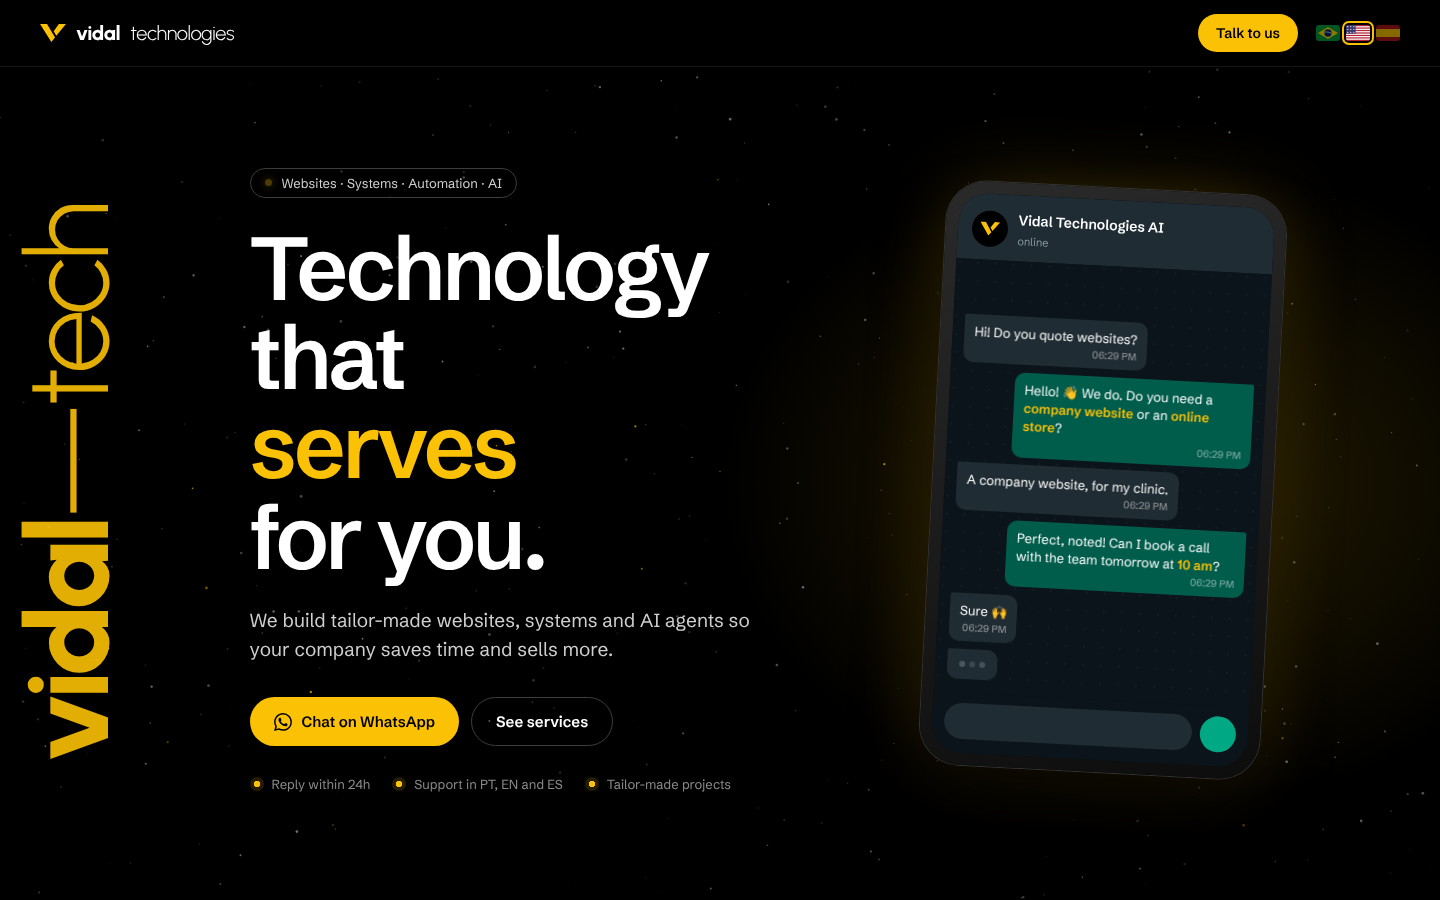
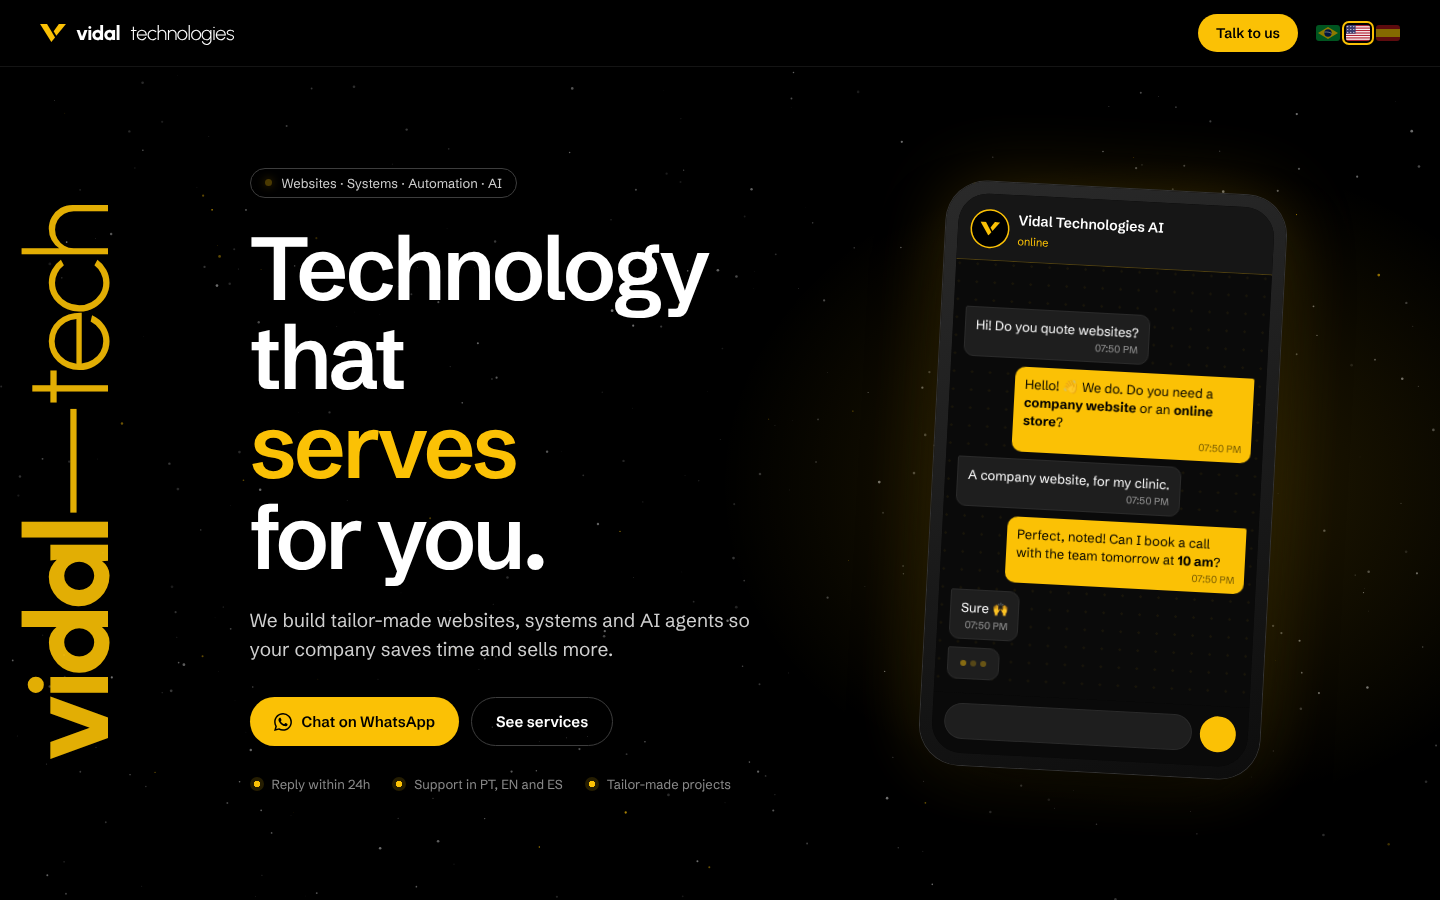
Conversa e botão de WhatsApp nas cores da Vidal
Troca o verde do WhatsApp por preto, grafite e dourado no celular do topo
e no botão flutuante. Atualiza os prints do README.

Claude-Session: https://claude.ai/code/session_01VMvWN3ztoPTLCbtyCda1pm

Changed region(s): [[0.6562, 0.3422, 0.875, 0.7467], [0.6562, 0.2178, 0.9062, 0.3111], [0.8125, 0.7778, 0.875, 0.84]]

diff --git a/index.html b/index.html
@@ -23,7 +23,6 @@
     --gold: #fbc105;
     --gold-2: #ffd54a;
     --ink: #000;
-    --wa: #25d366;
   }
   * { box-sizing: border-box; margin: 0; padding: 0; }
   html { scroll-behavior: smooth; color-scheme: dark; }
@@ -79,26 +78,27 @@
   /* Celular com a conversa no WhatsApp */
   .phone { justify-self: center; width: min(340px, 100%); border-radius: 40px; padding: 12px; background: linear-gradient(160deg, #2a2a2a, #0d0d0d); box-shadow: 0 0 0 1px #333, 0 40px 80px -20px rgba(0,0,0,.8), 0 0 80px -10px rgba(251,193,5,.25); transform: rotate(3deg); transition: transform .6s; }
   .phone:hover { transform: rotate(0); }
-  .screen { border-radius: 30px; overflow: hidden; background: #0b141a; height: 560px; display: flex; flex-direction: column; }
-  .chat-head { display: flex; align-items: center; gap: 10px; padding: 16px 14px 12px; background: #1f2c34; }
-  .chat-head .av { width: 36px; height: 36px; border-radius: 50%; background: #000; display: grid; place-items: center; flex: none; }
+  .screen { border-radius: 30px; overflow: hidden; background: #0a0a0a; height: 560px; display: flex; flex-direction: column; }
+  .chat-head { display: flex; align-items: center; gap: 10px; padding: 16px 14px 12px; background: #161616; border-bottom: 1px solid rgba(251,193,5,.25); }
+  .chat-head .av { width: 36px; height: 36px; border-radius: 50%; background: #000; box-shadow: 0 0 0 1.5px var(--gold); display: grid; place-items: center; flex: none; }
   .chat-head .av svg { width: 20px; height: 14px; color: var(--gold); }
   .chat-head strong { font-size: 14px; font-weight: 600; display: block; }
-  .chat-head small { font-size: 11px; color: #8696a0; }
-  .chat { flex: 1; padding: 14px 12px; display: flex; flex-direction: column; gap: 8px; overflow: hidden; justify-content: flex-end; background: radial-gradient(circle at 20% 20%, rgba(255,255,255,.03) 1px, transparent 1.5px) 0 0/18px 18px, #0b141a; }
+  .chat-head small { font-size: 11px; color: var(--gold); }
+  .chat { flex: 1; padding: 14px 12px; display: flex; flex-direction: column; gap: 8px; overflow: hidden; justify-content: flex-end; background: radial-gradient(circle at 20% 20%, rgba(251,193,5,.06) 1px, transparent 1.5px) 0 0/18px 18px, #0a0a0a; }
   .msg { max-width: 82%; padding: 8px 10px 6px; border-radius: 10px; font-size: 13px; line-height: 1.4; animation: pop .35s cubic-bezier(.2,.9,.3,1.2) both; }
   .msg time { display: block; text-align: right; font-size: 10px; color: rgba(255,255,255,.5); margin-top: 2px; }
-  .msg.in { align-self: flex-start; background: #202c33; border-top-left-radius: 2px; }
-  .msg.out { align-self: flex-end; background: #005c4b; border-top-right-radius: 2px; }
-  .msg.out b { color: var(--gold); font-weight: 600; }
+  .msg.in { align-self: flex-start; background: #1e1e1e; border: 1px solid #2a2a2a; border-top-left-radius: 2px; }
+  .msg.out { align-self: flex-end; background: var(--gold); color: #000; border-top-right-radius: 2px; }
+  .msg.out time { color: rgba(0,0,0,.55); }
+  .msg.out b { color: #000; font-weight: 700; }
   .msg.typing { display: flex; gap: 4px; padding: 12px; }
-  .msg.typing i { width: 6px; height: 6px; border-radius: 50%; background: #8696a0; animation: blink 1s infinite; }
+  .msg.typing i { width: 6px; height: 6px; border-radius: 50%; background: var(--gold); animation: blink 1s infinite; }
   .msg.typing i:nth-child(2) { animation-delay: .15s; } .msg.typing i:nth-child(3) { animation-delay: .3s; }
   @keyframes blink { 50% { opacity: .25; } }
   @keyframes pop { from { opacity: 0; transform: translateY(8px) scale(.96); } }
-  .chat-input { display: flex; align-items: center; gap: 8px; padding: 10px 12px 14px; background: #0b141a; }
-  .chat-input span { flex: 1; height: 36px; border-radius: 18px; background: #202c33; }
-  .chat-input i { width: 36px; height: 36px; border-radius: 50%; background: #00a884; }
+  .chat-input { display: flex; align-items: center; gap: 8px; padding: 10px 12px 14px; background: #0a0a0a; }
+  .chat-input span { flex: 1; height: 36px; border-radius: 18px; background: #1e1e1e; border: 1px solid #2a2a2a; }
+  .chat-input i { width: 36px; height: 36px; border-radius: 50%; background: var(--gold); }
 
   /* ---------- Faixa de palavras ---------- */
   .marquee { overflow: hidden; border-bottom: 1px solid #111; padding: 18px 0; background: #070707; }
@@ -152,10 +152,10 @@
   footer { display: flex; justify-content: space-between; align-items: center; gap: 16px; flex-wrap: wrap; padding: 28px 0; border-top: 1px solid #141414; color: var(--subtle); font-size: 13px; }
 
   /* Botão de WhatsApp fixo */
-  .wa-float { position: fixed; right: 20px; bottom: 20px; z-index: 60; width: 58px; height: 58px; border-radius: 50%; background: var(--wa); color: #fff; display: grid; place-items: center; box-shadow: 0 10px 30px rgba(0,0,0,.5); transition: transform .2s; }
+  .wa-float { position: fixed; right: 20px; bottom: 20px; z-index: 60; width: 58px; height: 58px; border-radius: 50%; background: var(--gold); color: #000; display: grid; place-items: center; box-shadow: 0 10px 30px rgba(0,0,0,.5), 0 0 30px -6px rgba(251,193,5,.6); transition: transform .2s; }
   .wa-float:hover { transform: scale(1.08); }
   .wa-float svg { width: 30px; height: 30px; }
-  .wa-float::before { content: ""; position: absolute; inset: 0; border-radius: 50%; border: 2px solid var(--wa); animation: ring 2.4s infinite; }
+  .wa-float::before { content: ""; position: absolute; inset: 0; border-radius: 50%; border: 2px solid var(--gold); animation: ring 2.4s infinite; }
   @keyframes ring { from { transform: scale(1); opacity: .8; } to { transform: scale(1.6); opacity: 0; } }
 
   .reveal { opacity: 0; transform: translateY(24px); transition: opacity .8s, transform .8s; }
